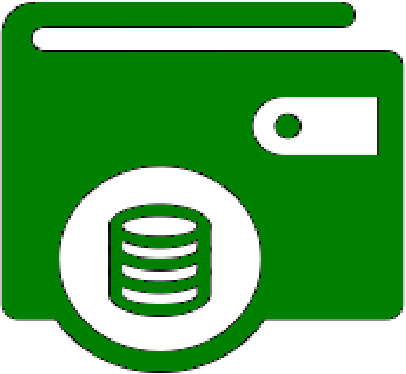
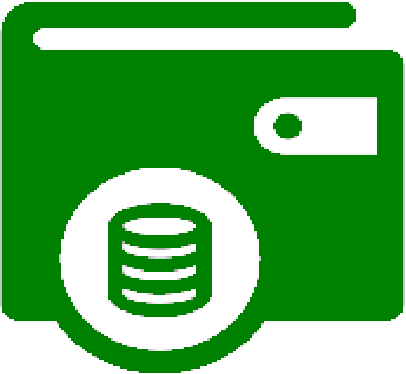
Improve 'pass' images. Add underline to header link hover

diff --git a/www/build/main.css b/www/build/main.css
@@ -25208,6 +25208,10 @@ p {
   margin: 0;
 }
 
+a:hover {
+  text-decoration: underline;
+}
+
 .header {
   position: relative;
   top: 0;

diff --git a/src/components/ds-header/ds-header.scss b/src/components/ds-header/ds-header.scss
@@ -16,6 +16,10 @@ hr {
 p {
     margin: 0;
 }
+
+a:hover {
+    text-decoration: underline;
+}
   
 .header {
     position: relative;
